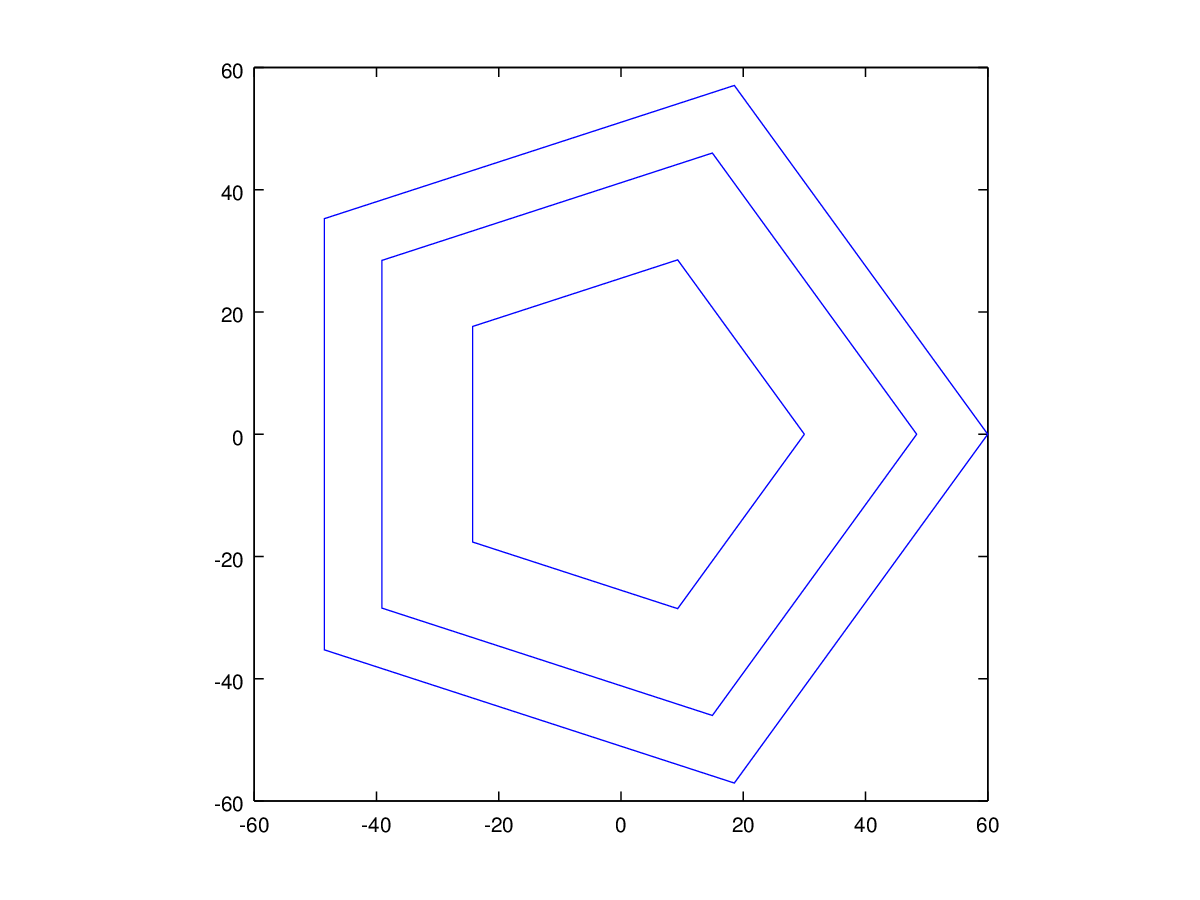
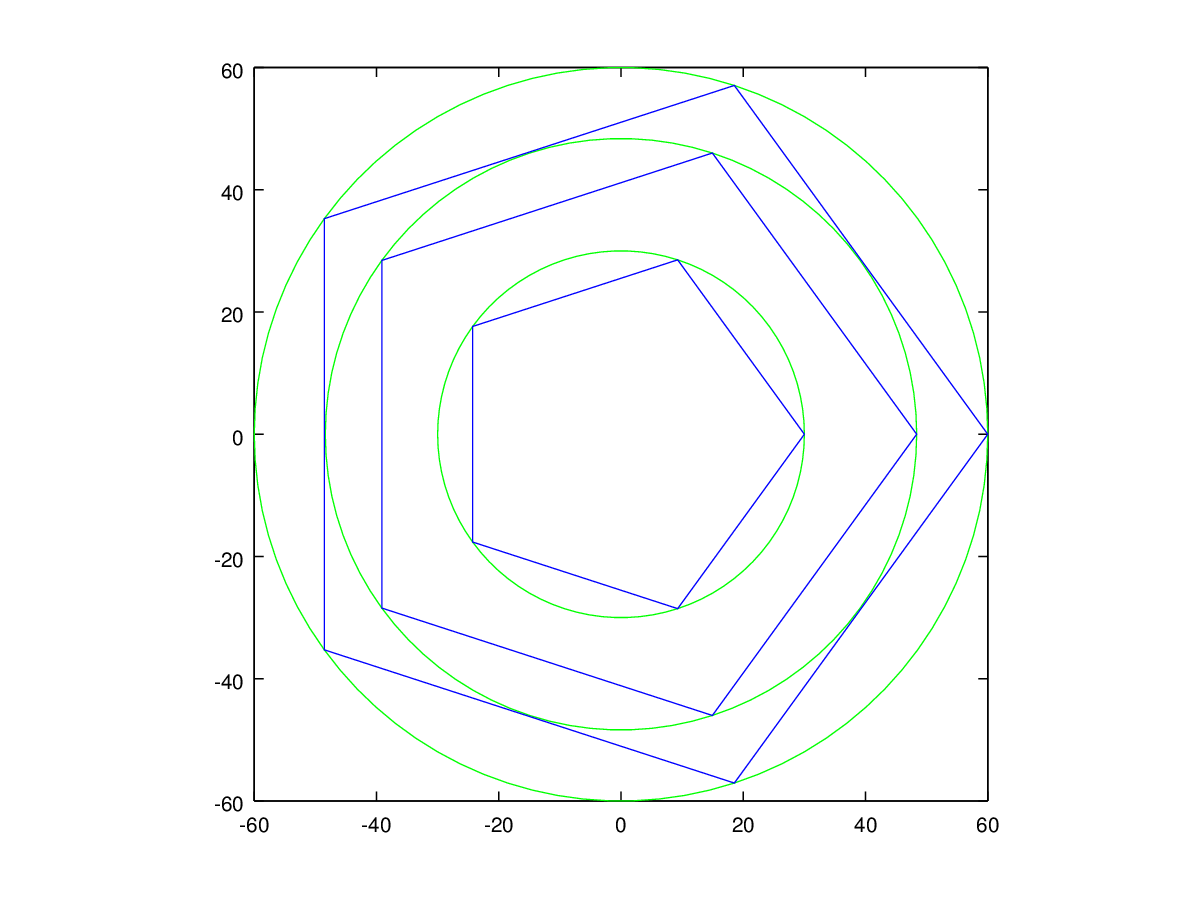
Exp. 1 y 2 comparan contra isoterma posta + graf. exp. 7

diff --git a/src/tools/hornoVsPosta.m b/src/tools/hornoVsPosta.m
@@ -1,0 +1,108 @@
+function hornoVsPosta(inputfile, solution, isofile, solout, isoout, inputposta, solposta, isoposta)
+
+ifid = fopen(inputfile);
+solfid = fopen(solution);
+instparam = fscanf(ifid, '%d',6);
+if (nargin > 2)
+   isofid = fopen(isofile);
+end
+
+angulos = instparam(4);
+radios = instparam(3);
+radioi = instparam(1);
+radioe = instparam(2);
+puntos = angulos*radios;
+caloriso = instparam(5);
+ninst = instparam(6);
+deltaAng = 2*pi/angulos;
+deltaRad = (radioe-radioi)/(radios-1);
+
+for k = 1:ninst
+    %armado de b 
+    b = zeros(puntos,1);
+    baux = fscanf(ifid,'%f',2*angulos);
+    b(1:angulos) = baux(1:angulos);
+    b(end-angulos+1:end) = baux(angulos+1:end);
+    
+    x = fscanf(solfid,'%f',puntos);
+    
+    xdib = zeros(puntos,1);
+    ydib = zeros(puntos,1);
+
+    pis = linspace(0,2*pi,angulos+1);
+    pis = pis(1:angulos);
+
+    for i=1:radios
+        radAct = radioi + deltaRad*(i-1); 
+        for j=1:angulos
+           xdib(idx(i,j,angulos)) = cos(pis(j))*radAct;
+           ydib(idx(i,j,angulos)) = sin(pis(j))*radAct;
+        end
+    end
+
+    %Aca ploteo el calor en el horno
+    figure;
+    xdib = reshape(xdib,angulos,radios);
+    xdib(angulos+1,:) = xdib(1,:);
+    ydib = reshape(ydib,angulos,radios);
+    ydib(angulos+1,:) = ydib(1,:);
+    x = reshape(x,angulos,radios);
+    x(angulos+1,:) = x(1,:);
+    h = pcolor(xdib,ydib,x);
+    axis('auto');
+    if (nargin > 3)
+        print(solout, '-dpng');
+        close;
+    end
+
+    %aca ploteo la isoterma
+    if (nargin > 2)
+        figure;
+
+        if (nargin > 7)
+            ipid = fopen(inputposta);
+            solpid = fopen(solposta);
+            postaparam = fscanf(ipid, '%d',6);
+            isopid = fopen(isoposta);
+
+            angulosposta = postaparam(4);
+            radiosposta = postaparam(3);
+            radioiposta = postaparam(1);
+            radioeposta = postaparam(2);
+            puntosposta = angulos*radios;
+            calorisoposta = postaparam(5);
+            ninstposta = postaparam(6);
+            deltaAngposta = 2*pi/angulos;
+            deltaRadposta = (radioe-radioi)/(radios-1);
+
+            radioisoposta = fscanf(isopid, '%f',angulosposta);
+            radioisoposta = [radioisoposta; radioisoposta(1)];
+            radioisoposta = radioisoposta';
+
+            thetaposta=linspace(0,2*pi,angulosposta+1);
+            internoposta=linspace(radioiposta,radioiposta,angulosposta+1);
+            externoposta=linspace(radioeposta,radioeposta,angulosposta+1);
+            polar(thetaposta,externoposta, 'r'), hold on;
+            polar(thetaposta,radioisoposta, 'r');
+            polar(thetaposta,internoposta, 'r');
+        end
+
+        radioiso = fscanf(isofid, '%f',angulos);
+        radioiso = [radioiso; radioiso(1)];
+        radioiso = radioiso';
+
+        theta=linspace(0,2*pi,angulos+1);
+        interno=linspace(radioi,radioi,angulos+1);
+        externo=linspace(radioe,radioe,angulos+1);
+        polar(theta,externo), hold on;
+        polar(theta,radioiso);
+        polar(theta,interno);
+
+        hold off;
+        axis('auto');
+        if (nargin > 4)
+            print(isoout, '-dpng');
+            close;
+        end
+    end
+end

diff --git a/src/exp/7-isotermaCalor/graficos.m b/src/exp/7-isotermaCalor/graficos.m
@@ -1,0 +1,6 @@
+addpath ../../tools
+
+horno('isotermaCalor-50.in', 'isotermaCalor-50.sol', 'isotermaCalor-50-iso2.sol', 'graficos/isotermaCalor-50', 'graficos/isotermaCalor-50-iso');
+horno('isotermaCalor-200.in', 'isotermaCalor-200.sol', 'isotermaCalor-200-iso2.sol', 'graficos/isotermaCalor-200', 'graficos/isotermaCalor-200-iso');
+
+hornoVsPosta('isotermaCalor-200.in', 'isotermaCalor-200.sol', 'isotermaCalor-200-iso2.sol', 'graficos/isotermaCalor-200', 'graficos/isotermaCalor-iso', 'isotermaCalor-50.in', 'isotermaCalor-50.sol', 'isotermaCalor-50-iso2.sol');
